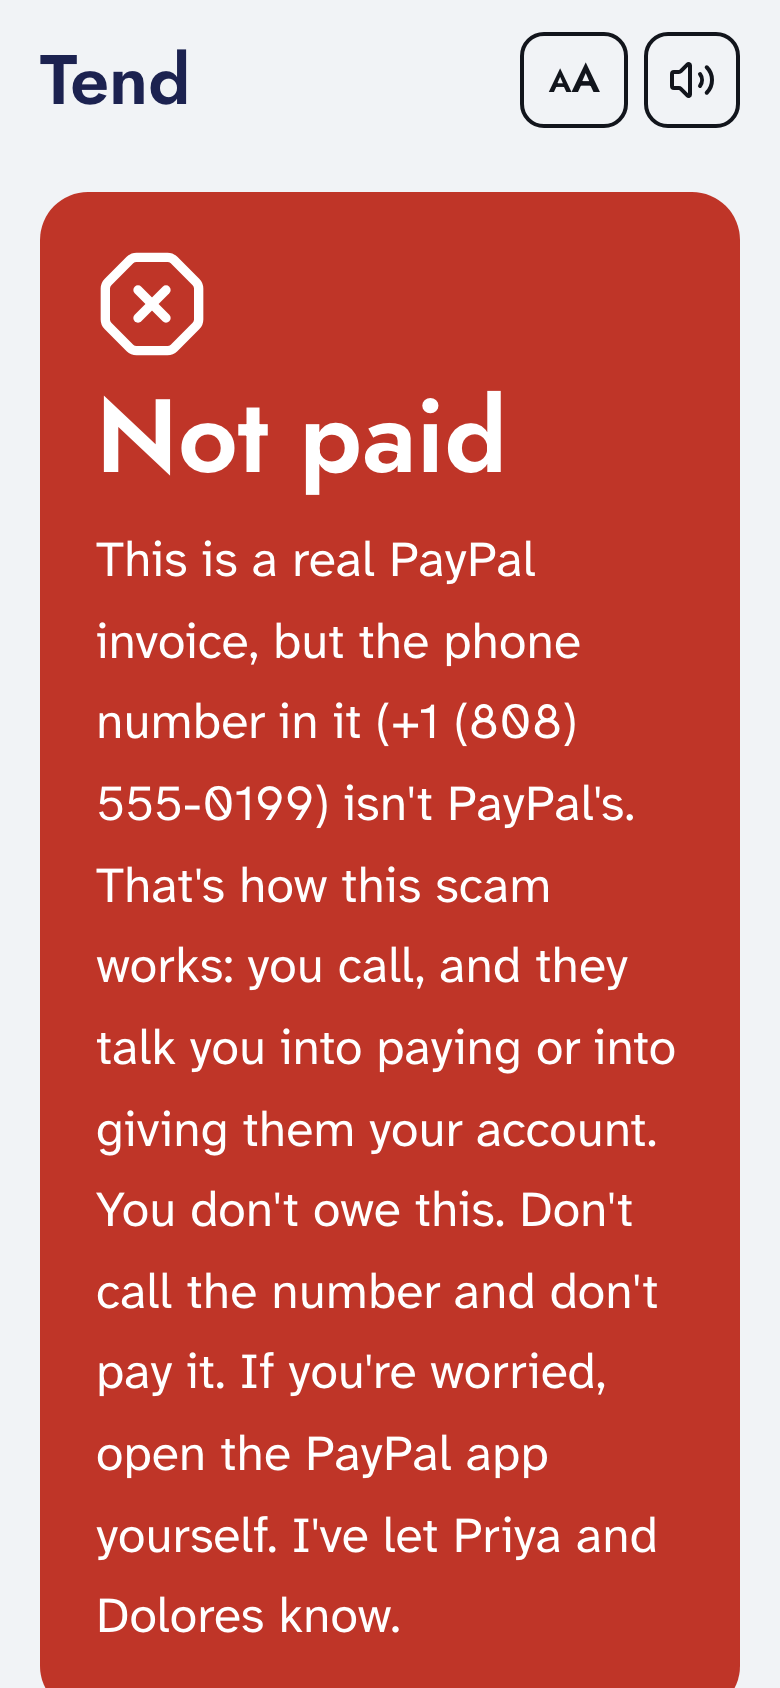
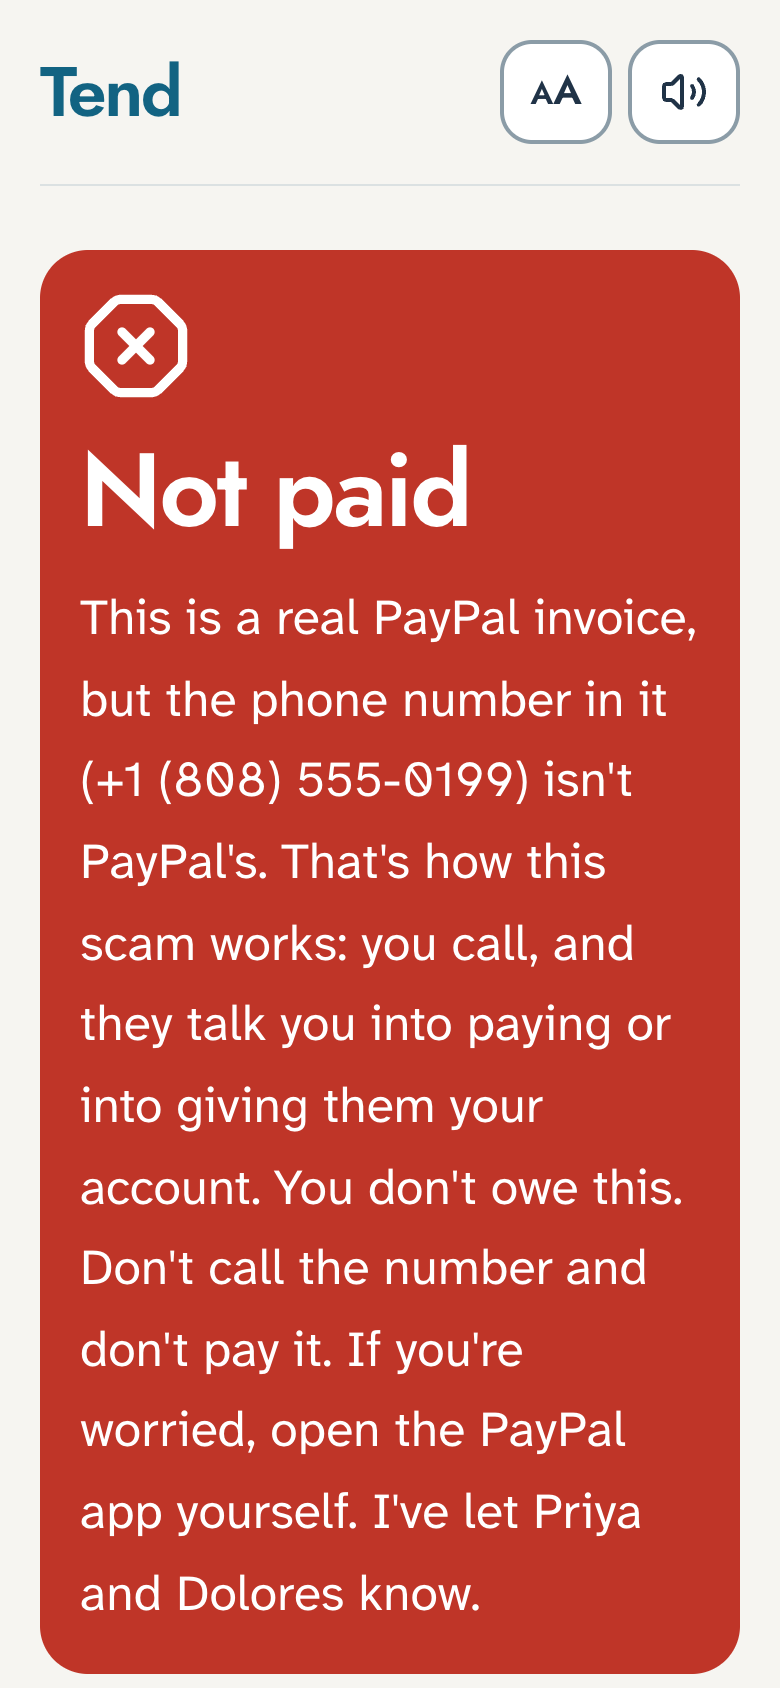
Retake the gallery in the new design and bring the write-ups up to date
All 14 README and Devpost screenshots, captured from Tend at 2x: the front
page, Walter's screens, a held payment on Dolores's and Priya's phones,
the care pot, the dashboards, the passbooks, the rules and the MCP panel.
Devpost drops the passed early-check date, notes that one-tap Stop it is
Android's, and matches the new design's wording; the video script covers
reinstalling the apps for the new icon.

Changed region(s): [[0.0308, 0.0, 0.9538, 1.0]]

diff --git a/README.md b/README.md
@@ -4,7 +4,7 @@
 
 Tend lets an older adult keep paying from their own PayPal, and gives the people they trust time to stop anything that looks wrong. Routine bills go straight through. Anything unusual is **authorized but held** in their PayPal: for a day if it's simply new or large, until someone says yes if it shows warning signs. Anyone in their circle can stop it, and PayPal voids the hold so the money never leaves. Gift cards, crypto, wire transfers and clear scams are refused before any money moves. Built on **PayPal** (Orders authorize/capture/void, Vault, Payouts, Invoicing, Agent Toolkit, JS SDK v6, Webhooks), with an **AI model** reading every request (Claude Sonnet 5.5 by default, on the Claude API; any model through OpenRouter), and an **AG Studio** dashboard for the circle.
 
-![Welcome: two circles, the Okafor family and Walter's circle, as a wall of live clocks](docs/screenshots/welcome.png)
+![Tend's front page: Walter's "Before you pay" and Dolores's alert for a payment held in his PayPal](docs/screenshots/welcome.png)
 
 ## The problem
 
@@ -167,7 +167,7 @@ In Claude.ai or Claude Desktop: Settings → Connectors → Add custom connector
 ## Sponsor tools
 
 - **AG Studio**, AG Grid's embedded analytics (`src/components/circle-dashboard.tsx`, `src/lib/report.ts`): the circle's dashboard at `/passbook/dashboard`. Three data sources built from the ledger (every payment and what happened to it, every time someone in the circle stepped in, and shares paid into a pot). It opens on a finished report: figures, a stacked weekly chart of what happened to the money, donuts, grids, page filters and cross-filtering, with Tend's theme, its person-colour palette and a phone layout. **Build your own** gives the circle drag-and-drop editing and **AG Studio's AI assistant**, connected to Tend's model through a custom `AgLlmAdapter`. A dashboard someone builds can be **saved for the whole circle** (one per circle, in Postgres) or reset to Tend's. Without `AG_GRID_LICENSE_KEY` it runs as a full trial with a watermark.
-- **AG Grid Community** (`src/components/passbook-grid.tsx`): the passbook explorer, themed from Tend's tokens with the Theming API. Natural-language questions become an **external filter** with removable chips; a **pinned totals row** recomputes on every filter and keeps money that was held, stopped or refused out of the totals; status pills; struck-through amounts for money that never left; quick search; per-column filters; CSV export; person-coloured cells; responsive columns (one signed Amount column on phones); circles without a pot hide the pot-only columns.
+- **AG Grid Community** (`src/components/passbook-grid.tsx`): the passbook explorer, themed from Tend's tokens with the Theming API. Natural-language questions become an **external filter** with removable chips; a **pinned totals row** recomputes on every filter and keeps money that was held, stopped or refused out of the totals; coloured status labels; struck-through amounts for money that never left; quick search; per-column filters; CSV export; person-coloured cells; responsive columns (one signed Amount column on phones); circles without a pot hide the pot-only columns.
 - **Render** (`render.yaml`): one Blueprint creates Postgres, the web service (health-checked at `/api/health`, seeds both demo circles on first boot) and a cron job that calls `/api/sync` every five minutes to settle payouts and **release holds that have ended**. If `DATABASE_URL` ever stops answering (free Render Postgres expires after 30 days), Tend falls back to its embedded database, reseeds the demo and says so on `/api/health`, instead of going dark mid-judging.
 - **Channel3** (`src/lib/shopping.ts`): product search across retailers for the shopping agent.
 
@@ -177,7 +177,7 @@ In Claude.ai or Claude Desktop: Settings → Connectors → Add custom connector
 
 | Passbook (Walter's circle) | Passbook (a shared pot, dark) |
 | --- | --- |
-| ![Passbook: held, refused, stopped and paid rows with status pills](docs/screenshots/passbook.png) | ![Passbook for the Okafor pot in dark mode](docs/screenshots/passbook-pot-dark.png) |
+| ![Passbook: held, refused, stopped and paid rows, each status in its own colour](docs/screenshots/passbook.png) | ![Passbook for the Okafor pot in dark mode](docs/screenshots/passbook-pot-dark.png) |
 
 ## Signing in, alerts and setting up
 
@@ -204,7 +204,7 @@ In Claude.ai or Claude Desktop: Settings → Connectors → Add custom connector
 
 ## Design: the clock wall
 
-Diaspora homes and bank halls have a row of clocks labelled with cities. Tend's interface is that wall: one live dial per person, night indigo when they're asleep, so a held payment always says who can look *now*. Each person keeps one colour everywhere. Amounts and times share one numeral system (Jost). Every line people read uses Atkinson Hyperlegible Next, designed for low-vision readers. The person's own screen has three big actions, three text sizes and answers read aloud in a natural voice. Light and dark both work. The design record is in `DESIGN.md`.
+Diaspora homes and bank halls have a row of clocks labelled with cities. Tend's interface is that wall: one live dial per person, night teal when they're asleep, so a held payment always says who can look *now*. Each person keeps one colour everywhere. Amounts and times share one numeral system (Jost). Every line people read uses Atkinson Hyperlegible Next, designed for low-vision readers. The person's own screen has three big actions, three text sizes and answers read aloud in a natural voice. Light and dark both work. The design record is in `DESIGN.md`.
 
 | The circle's home (dark) | The Okafor family home | Rules for their own payments |
 | --- | --- | --- |
